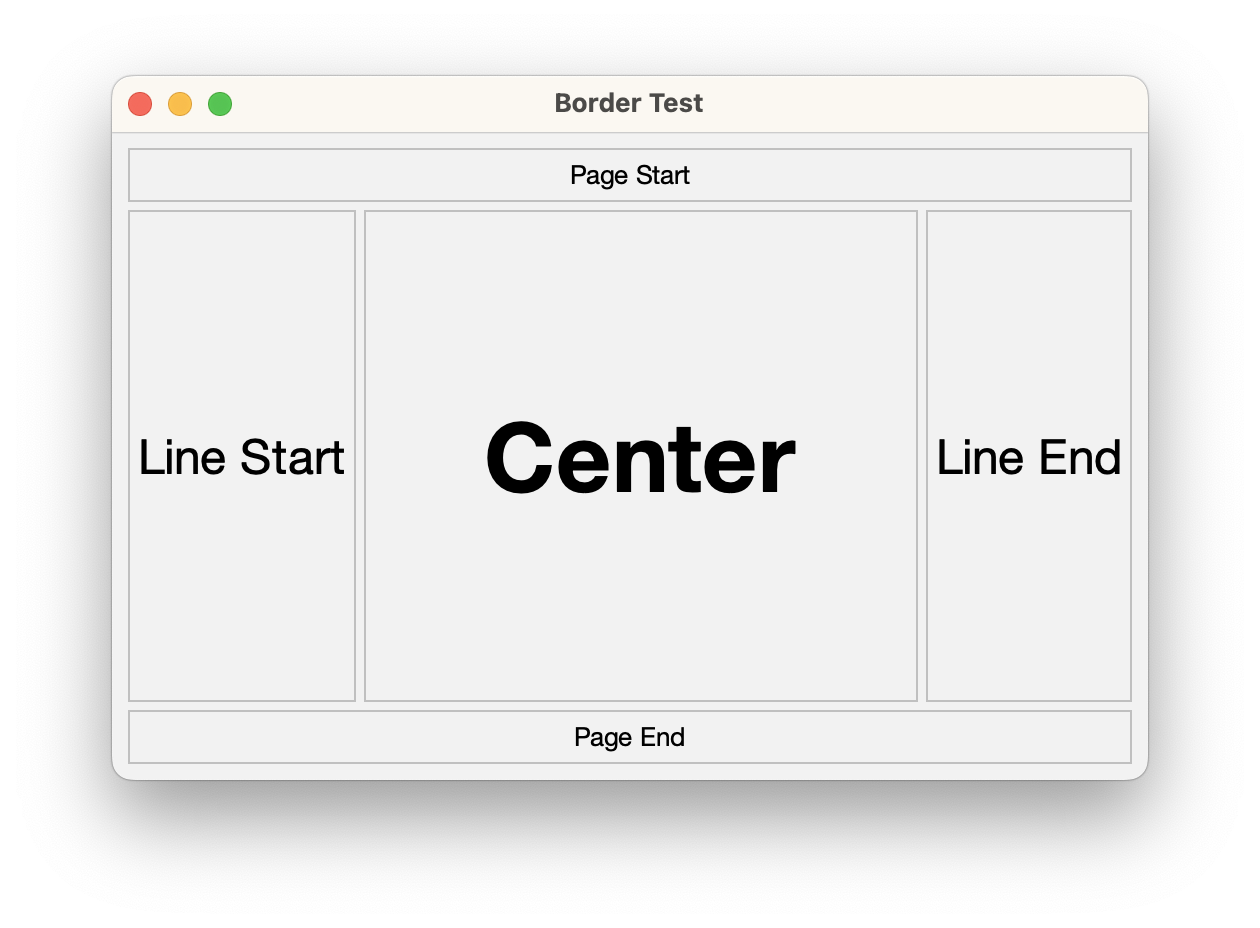
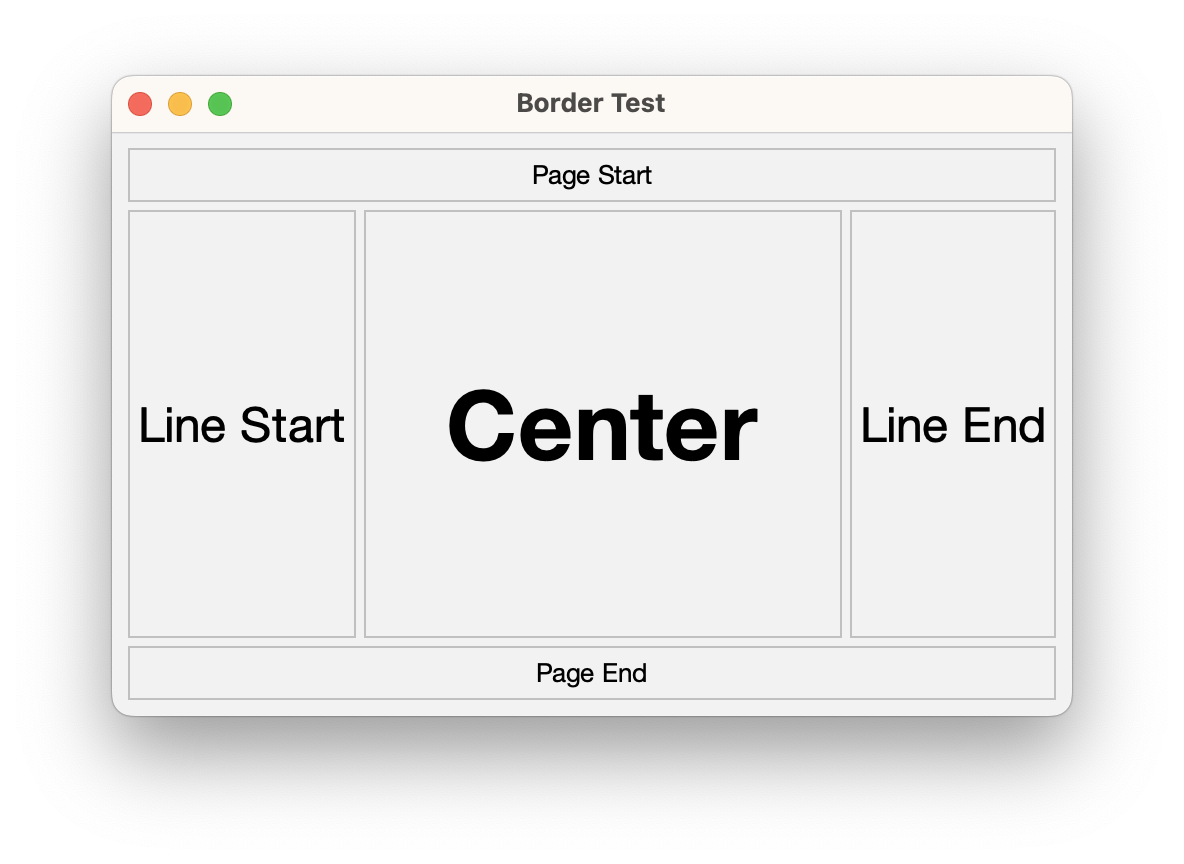
Update README.md.

Changed region(s): [[0.0625, 0.0938, 0.9375, 0.8438], [0.375, 0.4375, 0.6562, 0.5312]]

diff --git a/sierra-test/src/main/java/org/httprpc/sierra/BorderTest.java b/sierra-test/src/main/java/org/httprpc/sierra/BorderTest.java
@@ -60,7 +60,7 @@ public class BorderTest extends JFrame implements Runnable {
             cell(new JLabel("Page End")).with(cellStyle)
         ).with(contentPane -> contentPane.setBorder(new EmptyBorder(8, 8, 8, 8))).getComponent());
 
-        pack();
+        setSize(480, 320);
         setVisible(true);
     }
 

diff --git a/README.md b/README.md
@@ -134,7 +134,7 @@ Inspired by the [border layout](https://docs.oracle.com/javase/tutorial/uiswing/
 
 [BorderTest.java](https://github.com/HTTP-RPC/Sierra/blob/master/sierra-test/src/main/java/org/httprpc/sierra/BorderTest.java)
 
-<img src="README/border.png" width="630px"/>
+<img src="README/border.png" width="592px"/>
 
 ## Component Orientation
 Inspired by the [flow layout](https://docs.oracle.com/javase/tutorial/uiswing/layout/flow.html) tutorial example.
